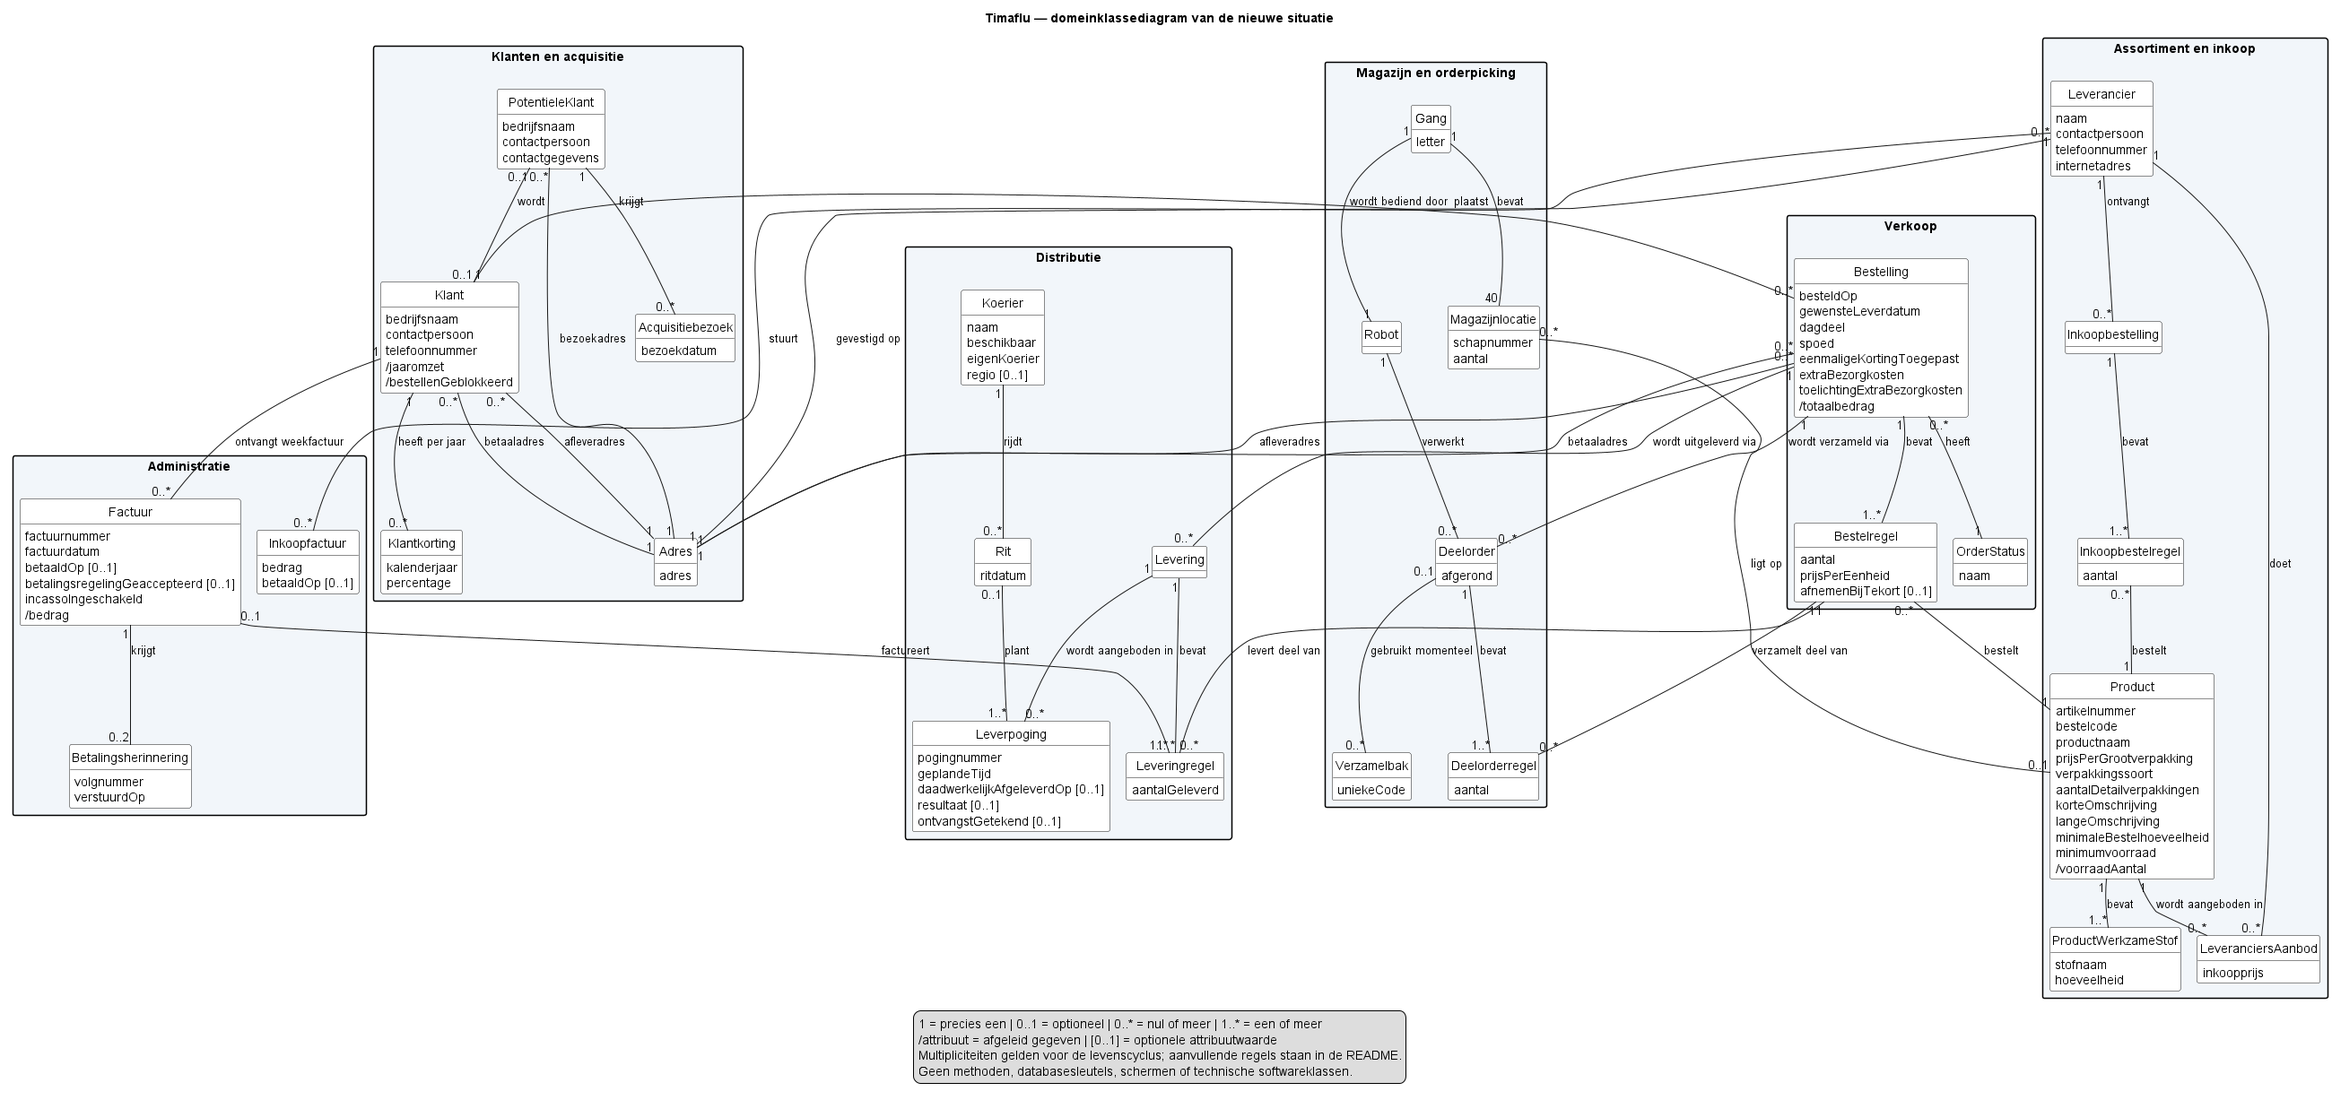
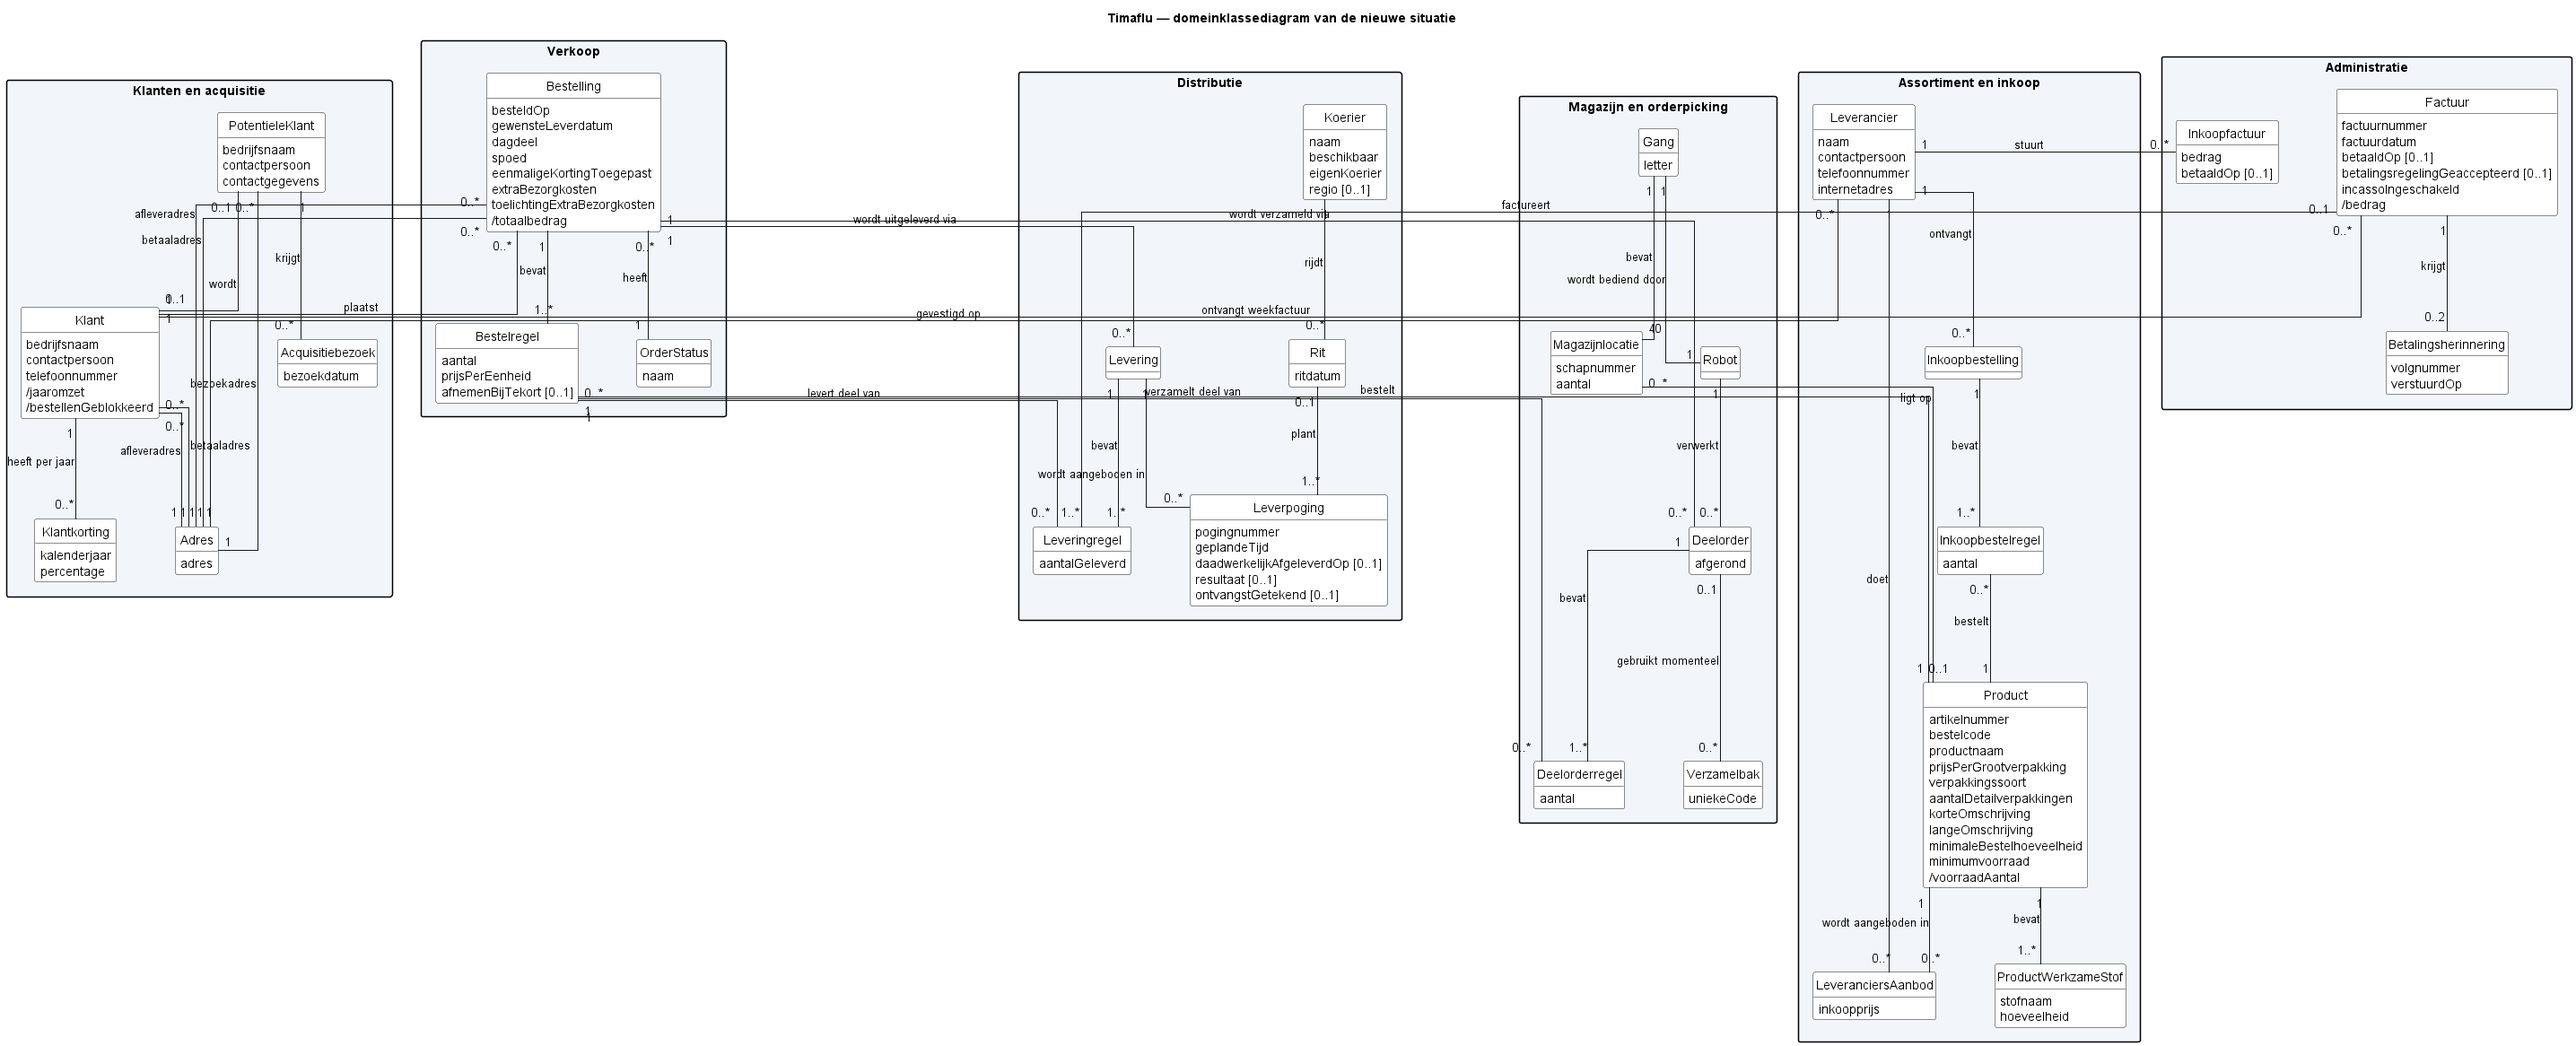
Align DKD sections and use orthogonal connectors

diff --git a/Documentation/Architecture/uml/src/domain/README.md b/Documentation/Architecture/uml/src/domain/README.md
@@ -160,6 +160,6 @@ Deze bestanden zijn niet aangepast: de opdracht betreft het DKD. Dit zijn aanslu
 
 ## Openen en exporteren
 
-Open `dkd-timaflu.puml` in VS Code en kies **PlantUML: Preview Current Diagram**. De meegeleverde SVG kan direct in een browser geopend worden. De bron gebruikt Smetana voor lokale layout en vereist daarvoor geen losse Graphviz-installatie. De bestaande PlantUML-extensie bevat de renderer.
+Open `dkd-timaflu.puml` in VS Code en kies **PlantUML: Preview Current Diagram**. De meegeleverde SVG kan direct in een browser geopend worden. De bron gebruikt de standaard Graphviz-layout met orthogonale lijnen: alle verbindingsstukken lopen horizontaal of verticaal. Onzichtbare layoutverbindingen plaatsen de procesvlakken naast elkaar; zij zijn geen domeinrelaties. De bestaande PlantUML-extensie bevat de renderer. De uitleg van de notatie staat in deze README; het diagram bevat geen apart uitlegblok.
 
 Kies na wijzigingen **PlantUML: Export Current Diagram** en werk de SVG in `uml/export/domain/` bij. De `.puml` blijft de bewerkbare bron. Voor dit DKD is PlantUML gebruikt zoals gevraagd, ook al noemt de algemene project-README draw.io voor diagrammen.
